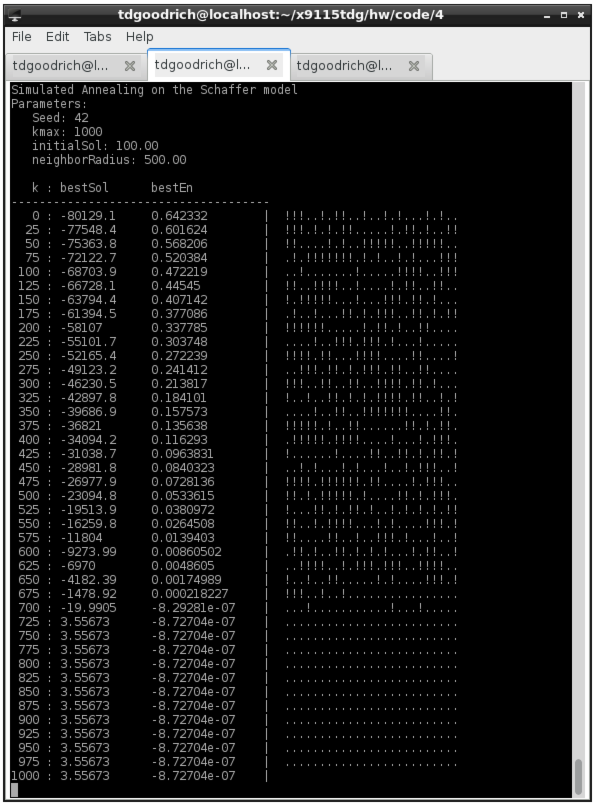
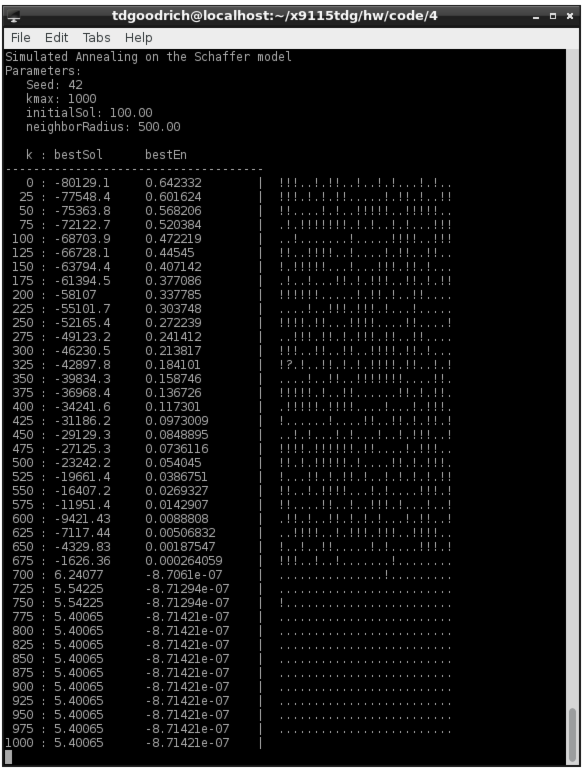
Fixed temp problems

Changed region(s): [[0.0, 0.0, 1.0, 1.0]]

diff --git a/hw/code/4/sa.py b/hw/code/4/sa.py
@@ -24,7 +24,7 @@ def energy(sampleMin, sampleMax, f1, f2, x):
 	return (float(f1(x) + f2(x) - sampleMin) / (sampleMax - sampleMin))
 
 def p(currEn, nextEn, t):
-	return math.exp(-1*(currEn-nextEn)/t)
+	return math.exp((currEn-nextEn)/t)
 
 def printHeader(seed, kmax, initialSol, neighborRadius):
 	print("Simulated Annealing on the Schaffer model")
@@ -58,7 +58,7 @@ def sa(seed=42, kmax=1000, initialSol=100, neighborRadius=500):
 		elif nextEn < currEn:
 			currSol, currEn = nextSol, nextEn
 			nextChar = "+"
-		elif p(currEn, nextEn, float(k)/kmax) < random.random():
+		elif p(currEn, nextEn, 1.001-float(k)/kmax) < random.random():
 			currSol, currEn = nextSol, nextEn
 			nextChar = "?"
 		say(nextChar)

diff --git a/hw/code/4/README.md b/hw/code/4/README.md
@@ -11,5 +11,3 @@
 ### Thoughts/Questions/Places I might have gone wrong
 
 1. I did not use `e > emax` as a condition in the while loop. If this is a minimization problem, why would we stop if we're epsilon away from the sampleMaximum? It's likely that our initial solution is less than the sampleMaximum, in fact. Perhaps I'm misunderstanding something.
-2. In the pseudocode it says to do `ELSE IF P(e, en, k/kmax) > rand()`. However, later on in the document it says to do `random() > P`. Which way should the inequality go? When I do it the first way I get a lot of jumps to worse solutions, when I do the second way I get absolutely no jumps to worse solutions (but get a much much better final solution).
-3. More generally, if I do `random() > P` then the output tells me that all I'm doing is gradient descent (see the output above). Is this bad? Perhaps I defined the neighborhood function poorly, such that most suggested "bad" neighbors are actually too terrible to even consider.
